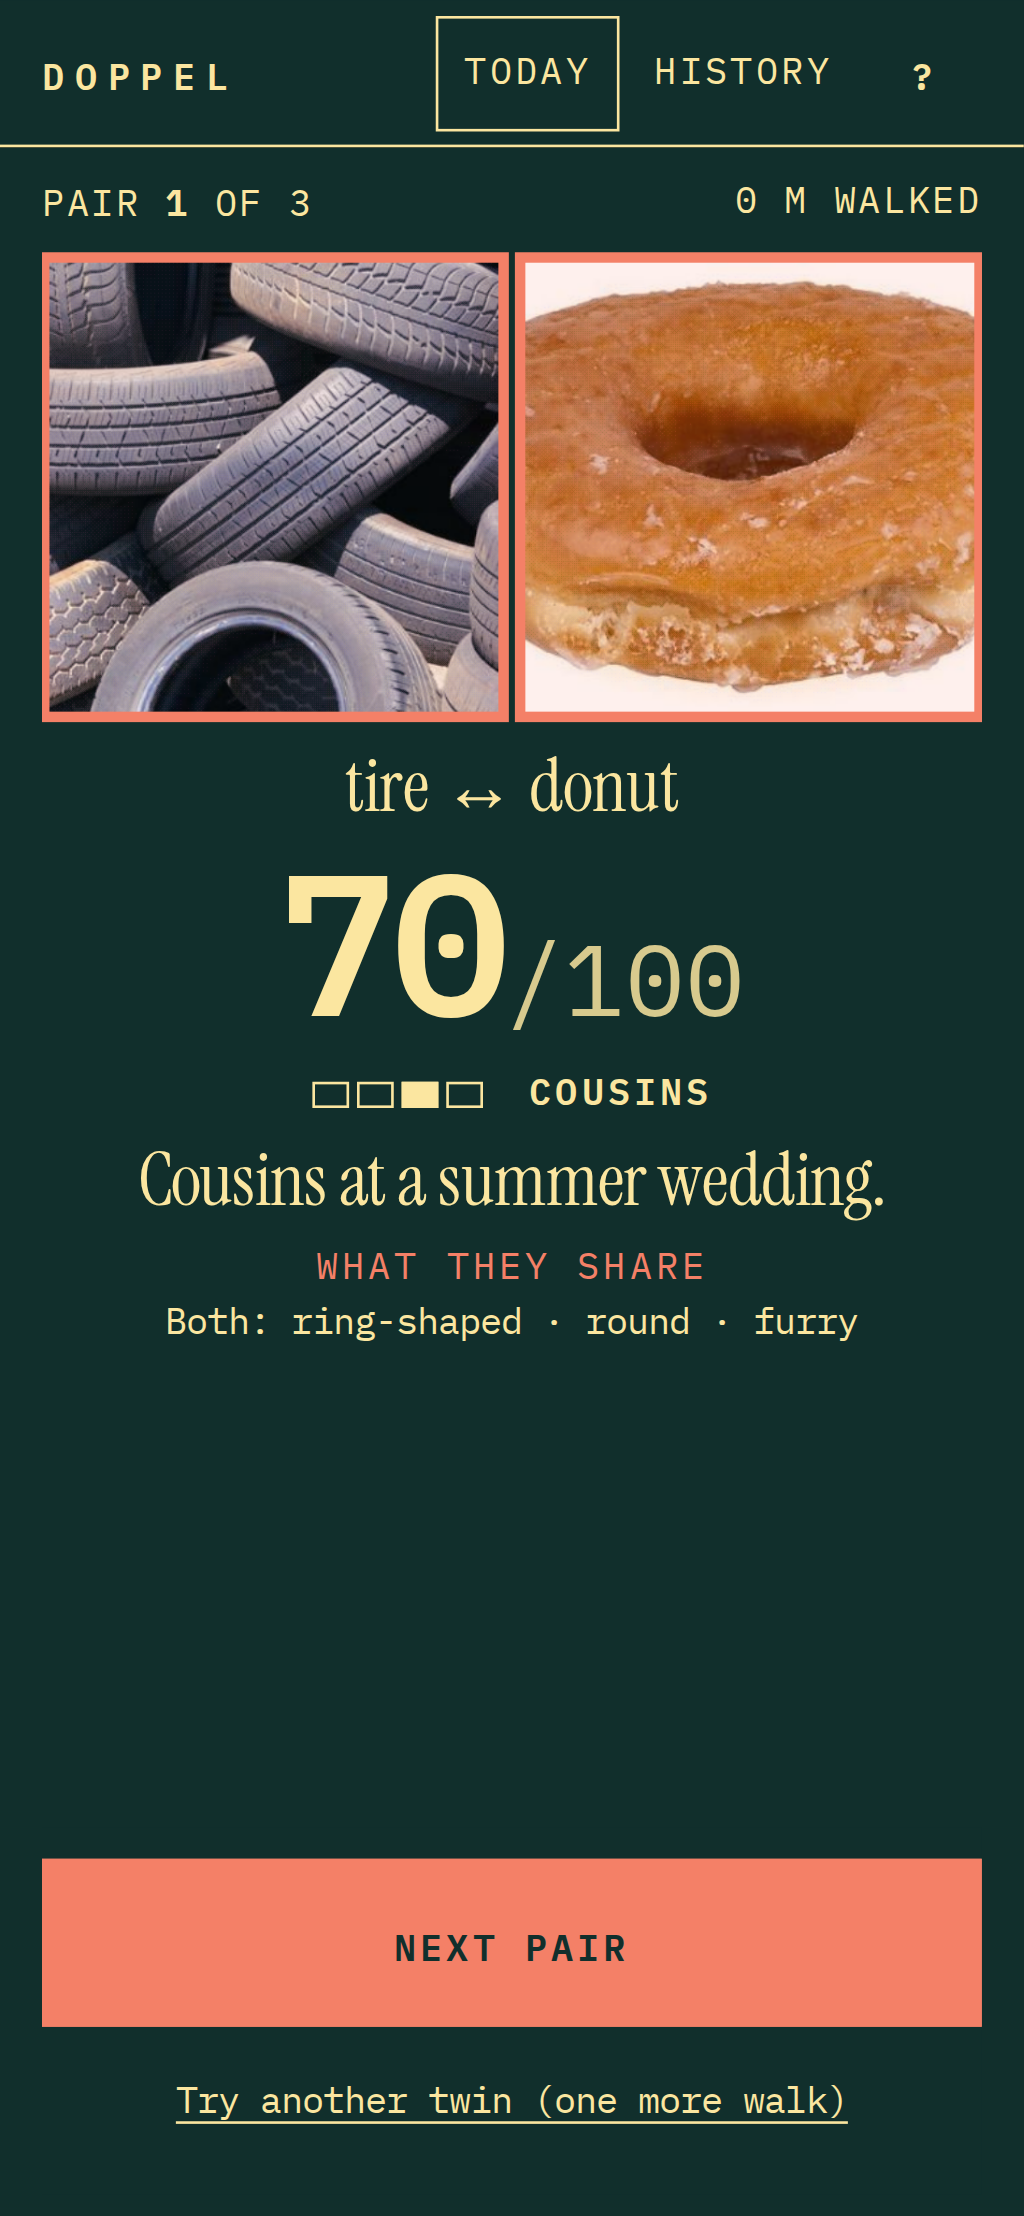
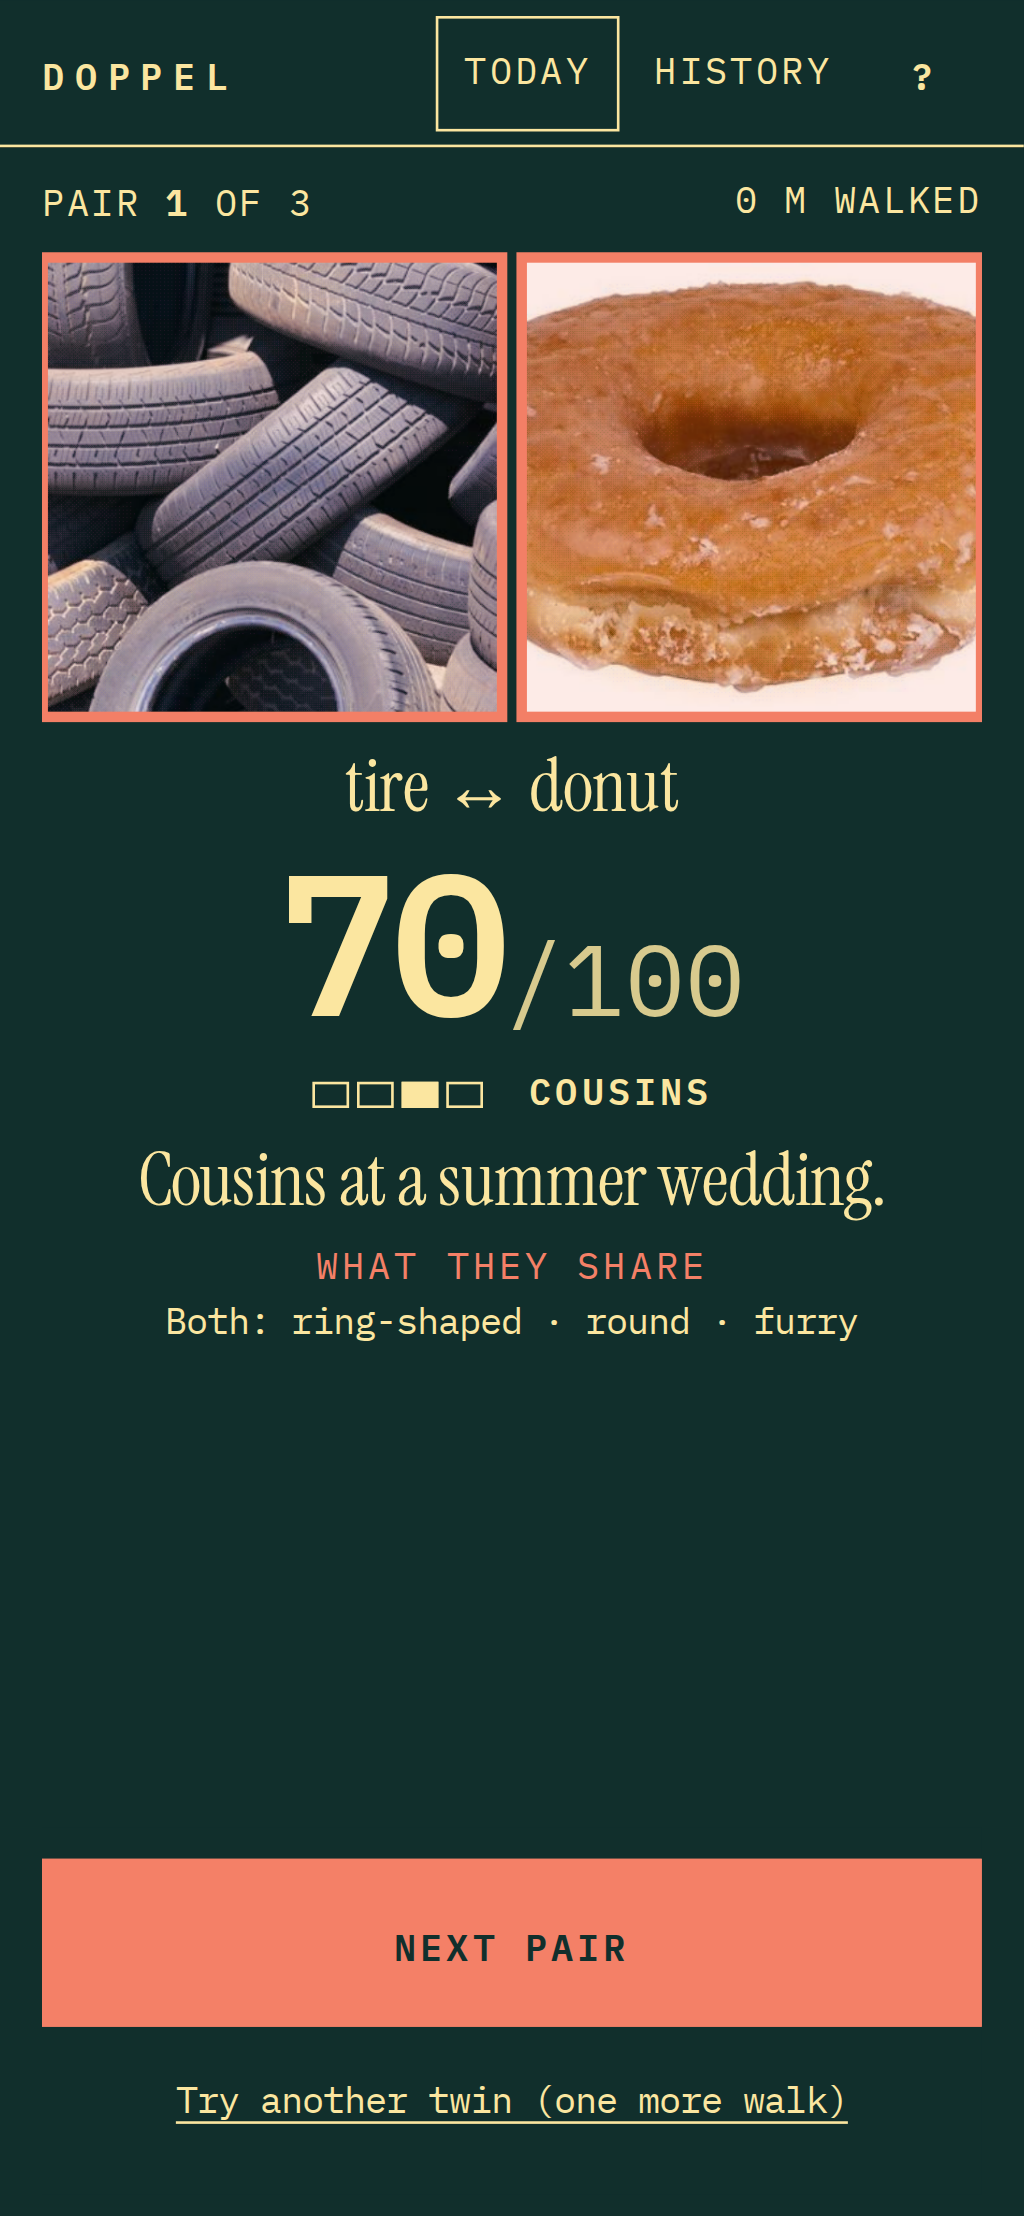
Link preview: og and twitter tags, 1200x630 og.png

diff --git a/web/index.html b/web/index.html
@@ -7,6 +7,19 @@
   <meta name="theme-color" content="#112f2c">
   <meta name="description" content="Find two different things that look the same. Outside. EmbeddingGemma 2 on your phone judges the twins.">
   <title>Doppel</title>
+  <meta property="og:type" content="website">
+  <meta property="og:site_name" content="Doppel">
+  <meta property="og:title" content="Doppel: find two different things that look the same">
+  <meta property="og:description" content="A walking game: photograph anything outside, walk, then find its twin. EmbeddingGemma 2 runs on your phone and judges the lookalikes. Photos never leave your phone.">
+  <meta property="og:url" content="https://doppel-ws59.onrender.com/">
+  <meta property="og:image" content="https://doppel-ws59.onrender.com/og.png">
+  <meta property="og:image:width" content="1200">
+  <meta property="og:image:height" content="630">
+  <meta property="og:image:alt" content="A cloud and a cotton boll side by side in an amber frame: cloud and cotton, 85 out of 100, Uncanny. Both: fluffy, puffy, white.">
+  <meta name="twitter:card" content="summary_large_image">
+  <meta name="twitter:title" content="Doppel: find two different things that look the same">
+  <meta name="twitter:description" content="Photograph anything outside, walk, then find its twin. EmbeddingGemma 2 on your phone judges the lookalikes.">
+  <meta name="twitter:image" content="https://doppel-ws59.onrender.com/og.png">
   <link rel="icon" href="./icon.svg" type="image/svg+xml">
   <link rel="manifest" href="./manifest.webmanifest">
   <link rel="apple-touch-icon" href="./icon-192.png">

diff --git a/web/tests/e2e/meta.spec.ts b/web/tests/e2e/meta.spec.ts
@@ -1,0 +1,20 @@
+import { expect, test } from "@playwright/test";
+
+// Link preview: og/twitter tags in the built index.html, and a 1200x630 PNG.
+test("built index.html has the link-preview tags and the og image exists @small", async ({ request }) => {
+  const html = await (await request.get("/")).text();
+  for (const tag of [
+    /<meta property="og:title" content="Doppel[^"]*">/,
+    /<meta property="og:description" content="[^"]{40,}">/,
+    /<meta property="og:image" content="https:\/\/doppel-ws59\.onrender\.com\/og\.png">/,
+    /<meta property="og:image:width" content="1200">/,
+    /<meta property="og:image:height" content="630">/,
+    /<meta name="twitter:card" content="summary_large_image">/,
+  ]) expect(html).toMatch(tag);
+  const img = await request.get("/og.png");
+  expect(img.status()).toBe(200);
+  expect(img.headers()["content-type"]).toContain("image/png");
+  const b = await img.body();
+  expect(b.readUInt32BE(16)).toBe(1200); // PNG IHDR width
+  expect(b.readUInt32BE(20)).toBe(630); // PNG IHDR height
+});

diff --git a/web/tests/e2e/live.spec.ts b/web/tests/e2e/live.spec.ts
@@ -21,3 +21,12 @@ test("live: loads, registers the service worker, starts the model download, play
   await expect.poll(async () => modelRequested !== "" || (await unsupported.count()) > 0, { timeout: 20_000 }).toBe(true);
   test.info().annotations.push({ type: "model", description: modelRequested || "WebGPU unavailable in this browser; download not attempted" });
 });
+
+test("live: link preview tags and og image", async ({ request }) => {
+  const html = await (await request.get("/")).text();
+  expect(html).toContain('<meta name="twitter:card" content="summary_large_image">');
+  expect(html).toContain('<meta property="og:image" content="https://doppel-ws59.onrender.com/og.png">');
+  const img = await request.get("/og.png");
+  expect(img.status()).toBe(200);
+  expect(img.headers()["content-type"]).toContain("image/png");
+});
